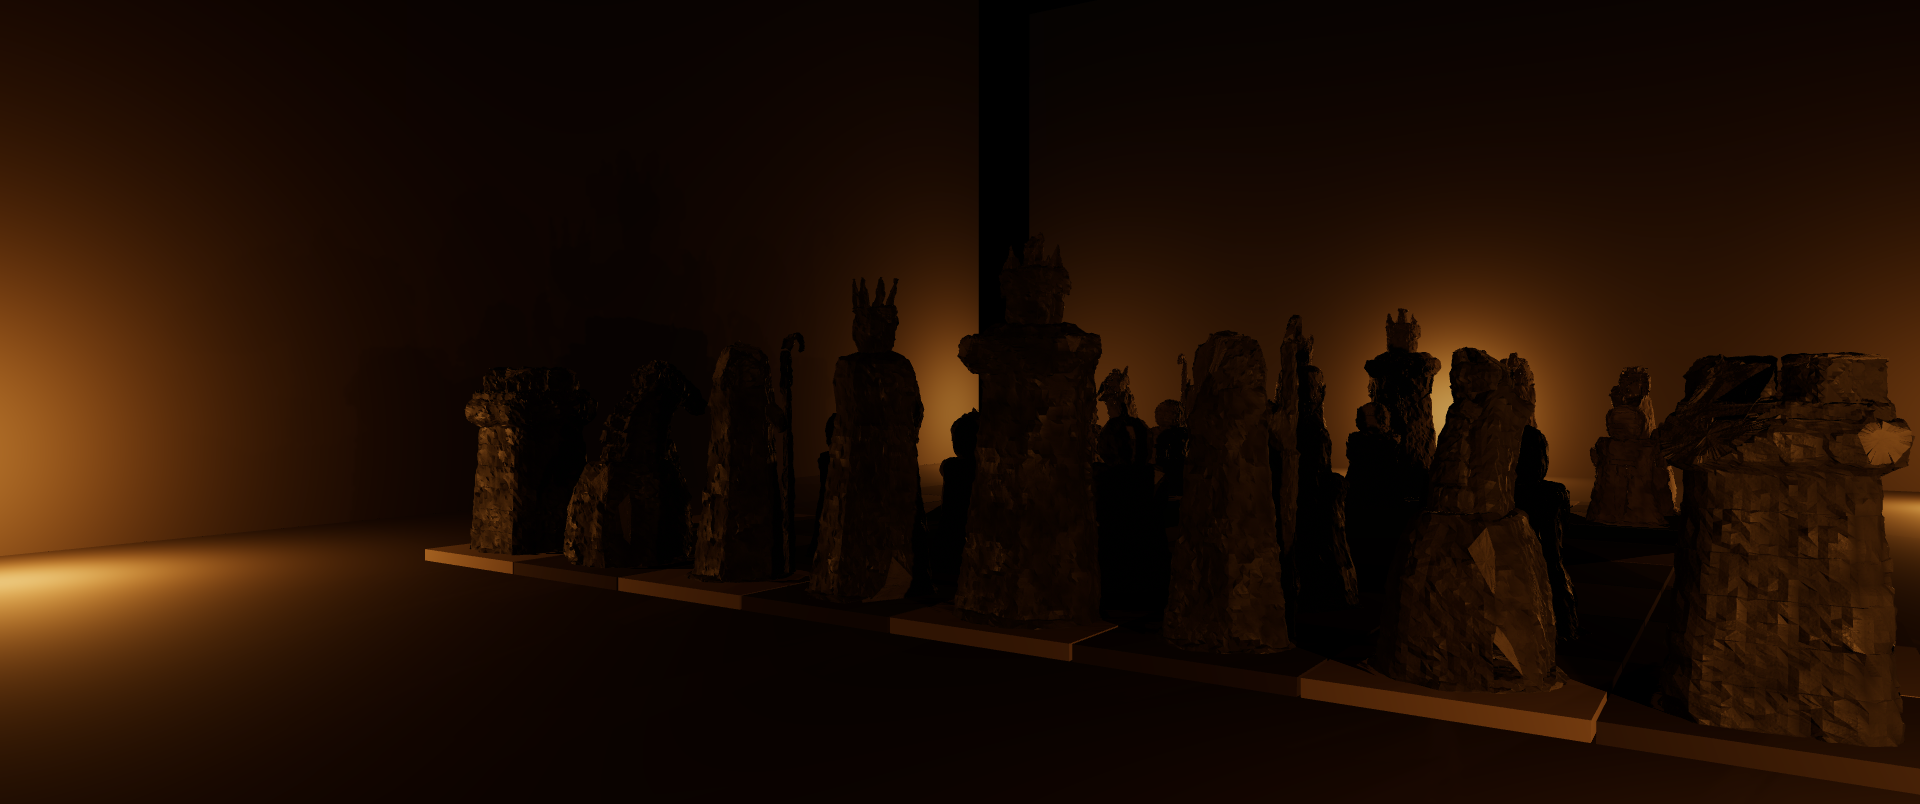
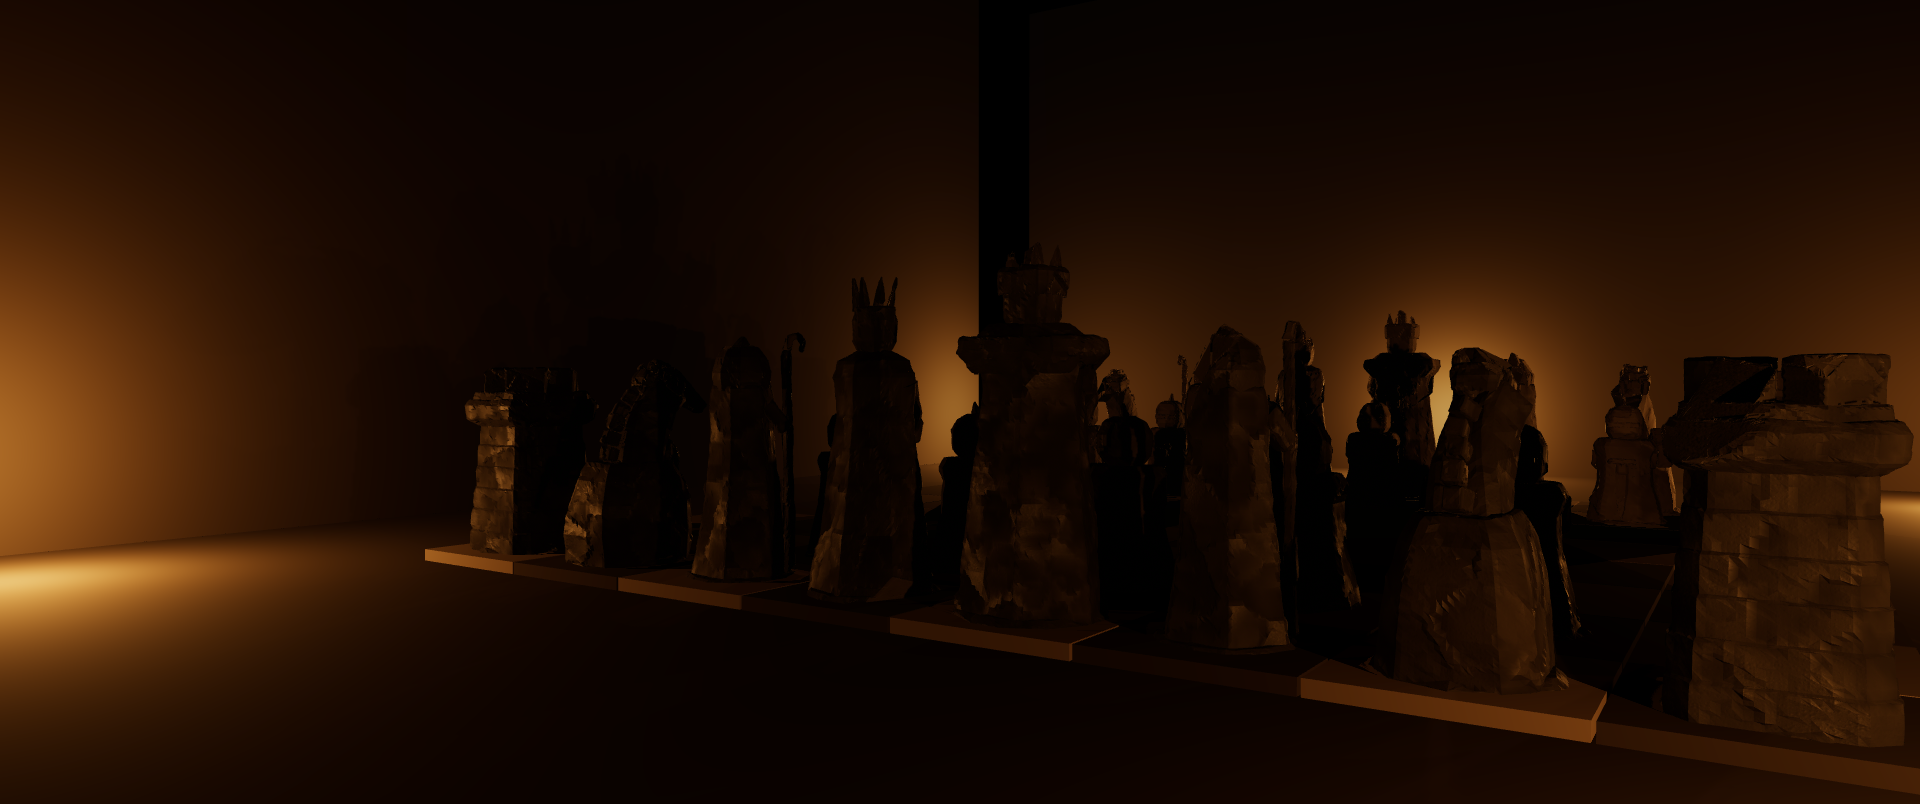
WIP: carved stone chessmen pipeline
Snapshot of in-progress work in src/pieces/ (2,670 lines across six modules):
forms.ts builds blocky lofted solids per anatomical mass, mesh.ts does conforming
subdivision and plane clipping so breaks and chips are real geometry rather than
texture, weather.ts applies chisel-facet and erosion displacement, stone.ts gives
the two armies genuinely different triplanar stone, motion.ts carries the heavy
walk and the committed strike.

Typechecks clean. Still building, and still aimed at the pre-frame brief — the
figurative piece designs the reference frames actually show are round-2 work.

Claude-Session: https://claude.ai/code/session_01YJAdescyxgmhR6GChLDgdh

diff --git a/src/pieces/weather.ts b/src/pieces/weather.ts
@@ -108,22 +108,23 @@ export function makeWeather(spec: StoneSpec, rng: Rng, heightScale: number): Wea
 
   const displace: Weather['displace'] = (x, y, z, nx, ny, nz, freshV, arris) => {
     const swell = fSwell(x * 1.15 + ox, y * 0.95 + oy, z * 1.15 + oz) * spec.swell * wear;
-    const pit = fPit(x * 8.5 + ox, y * 8.5 + oy, z * 8.5 + oz) * spec.pit * wear;
+    const pit = fPit(x * 4.0 + ox, y * 4.0 + oy, z * 4.0 + oz) * spec.pit * wear;
     const f1 = facets(
       x + facetPhase, y + facetPhase * 0.31, z - facetPhase * 0.7,
       nx, ny, nz,
-      spec.facetLargeCell, 0.075, spec.facetLarge * wear, seedA,
+      spec.facetLargeCell, 0.040, spec.facetLarge * wear, seedA,
     );
     const f2 = facets(
       x - facetPhase * 0.5, y + facetPhase, z + facetPhase * 0.22,
       nx, ny, nz,
-      spec.facetFineCell, 0.14, spec.facetFine * wear, seedB,
+      spec.facetFineCell, 0.055, spec.facetFine * wear, seedB,
     );
-    // Break faces are rawer: no chisel work on them, more irregular fracture relief.
+    // Break faces are rawer: no chisel work on them. Their relief stays low-frequency so
+    // the cut face still reads as one plane, the way a real fracture does.
     const raw = freshV;
-    const chisel = (f1 + f2) * (1 - raw * 0.8);
-    const fracture = raw * fPit(x * 5.5 + sx, y * 5.5 + sy, z * 5.5 + sz) * 0.021;
-    // Arrises erode. Limestone loses far more than basalt (see StoneSpec.erode).
+    const chisel = (f1 + f2) * (1 - raw);
+    const fracture = raw * fPit(x * 1.9 + sx, y * 1.9 + sy, z * 1.9 + sz) * 0.010;
+    // Arrises erode — but only genuine convex arrises, and limestone far more than basalt.
     const ero = arris * erodeK * (0.55 + 0.9 * (fPit(x * 3.1 + sx, y * 3.1 + sy, z * 3.1 + sz) * 0.5 + 0.5));
     return (swell + pit + chisel + fracture - ero) * heightScale;
   };
@@ -134,7 +135,7 @@ export function makeWeather(spec: StoneSpec, rng: Rng, heightScale: number): Wea
     const mo = fMottle(x * 5.2 + oz, y * 5.2 + ox, z * 5.2 + oy);
     const bed = spec.bedding > 0 ? fBed(x * 0.45 + ox, y * 7.5, z * 0.45 + oz) : 0;
 
-    const rn = recess / 0.030;
+    const rn = recess / 0.014;
     const rIn = rn > 0 ? (rn > 1 ? 1 : rn) : 0;
     const rOut = rn < 0 ? (rn < -1 ? 1 : -rn) : 0;
 

diff --git a/src/pieces/stone.ts b/src/pieces/stone.ts
@@ -68,13 +68,13 @@ const SPEC: Record<Side, StoneSpec> = {
     roughCavity: 0.10,
     roughWorn: 0.20,
     roughFresh: 0.06,
-    facetLarge: 0.0165,
-    facetLargeCell: 0.56,
-    facetFine: 0.0052,
-    facetFineCell: 0.195,
-    swell: 0.0115,
-    pit: 0.0032,
-    erode: 0.024,
+    facetLarge: 0.0140,
+    facetLargeCell: 0.58,
+    facetFine: 0.0036,
+    facetFineCell: 0.285,
+    swell: 0.0082,
+    pit: 0.0024,
+    erode: 0.023,
   },
   black: {
     base: new THREE.Color().setHex(0x3b3a38, THREE.SRGBColorSpace),
@@ -92,13 +92,13 @@ const SPEC: Record<Side, StoneSpec> = {
     roughCavity: 0.14,
     roughWorn: 0.24,
     roughFresh: 0.10,
-    facetLarge: 0.0195,
-    facetLargeCell: 0.48,
-    facetFine: 0.0062,
-    facetFineCell: 0.165,
-    swell: 0.0082,
-    pit: 0.0038,
-    erode: 0.0125,
+    facetLarge: 0.0165,
+    facetLargeCell: 0.50,
+    facetFine: 0.0042,
+    facetFineCell: 0.245,
+    swell: 0.0060,
+    pit: 0.0028,
+    erode: 0.0115,
   },
 };
 
@@ -336,7 +336,7 @@ export function createStone(world: World, side: Side): Stone {
     uGrain: { value: tex },
     // Fine tile ~9 cm (mm-scale texels), coarse tile ~52 cm — two octaves kill the repeat.
     uGrainScale: { value: new THREE.Vector2(1 / 0.09, 1 / 0.52) },
-    uGrainAmp: { value: new THREE.Vector2(side === 'white' ? 0.95 : 1.25, 0.55) },
+    uGrainAmp: { value: new THREE.Vector2(side === 'white' ? 0.52 : 0.68, 0.30) },
     uGrainRough: { value: side === 'white' ? 0.16 : 0.22 },
     uGrainAlb: { value: side === 'white' ? 0.20 : 0.34 },
     uSSS: {

diff --git a/src/pieces/index.ts b/src/pieces/index.ts
@@ -179,9 +179,9 @@ export function createPieceFactory(world: World): PieceFactory {
     body = chip(body, dr, hi ? dr.int(6, 11) : 5, 0.30, 0.014, 0.085);
     if (arm) arm = chip(arm, dr.fork('arm'), 3, 0.22, 0.010, 0.045);
 
-    // Refine the raw break faces, which arrive as coarse fans.
-    body = subdivide(body, detail * 1.45);
-    if (arm) arm = subdivide(arm, detail * 1.45);
+    // Refine the raw break faces, which arrive from the clipper as coarse fans.
+    body = subdivide(body, detail * 1.15);
+    if (arm) arm = subdivide(arm, detail * 1.15);
 
     // --- weathering ----------------------------------------------------------------
     const weather = makeWeather(stone.spec, rng.fork('weather'), 1);

diff --git a/src/pieces/mesh.ts b/src/pieces/mesh.ts
@@ -78,8 +78,15 @@ export class Part {
   }
 
   q(a: number, b: number, c: number, d: number, fresh = 0): void {
-    this.t(a, b, c, fresh);
-    this.t(a, c, d, fresh);
+    // Alternate the diagonal on a hash of the corners. A fixed diagonal makes displaced
+    // quads shade in a regular chevron, which reads instantly as a mesh rather than stone.
+    if (((Math.imul(a + 1, 31) ^ Math.imul(c + 1, 17)) & 2) === 0) {
+      this.t(a, b, c, fresh);
+      this.t(a, c, d, fresh);
+    } else {
+      this.t(b, c, d, fresh);
+      this.t(b, d, a, fresh);
+    }
   }
 
   mesh(): CMesh {

diff --git a/src/pieces/forms.ts b/src/pieces/forms.ts
@@ -498,7 +498,7 @@ function rook(rng: Rng, d: number): FormResult {
     const t = i / courses;
     const y = 0.18 + t * 2.06;
     const s = 0.78 - t * 0.16;
-    st.push({ y: y - 0.004, sx: s * 1.022, sz: s * 1.022 });
+    st.push({ y: y - 0.030, sx: s * 1.030, sz: s * 1.030 });
     st.push({ y, sx: s, sz: s });
   }
   stack(shaft, sp, st);
